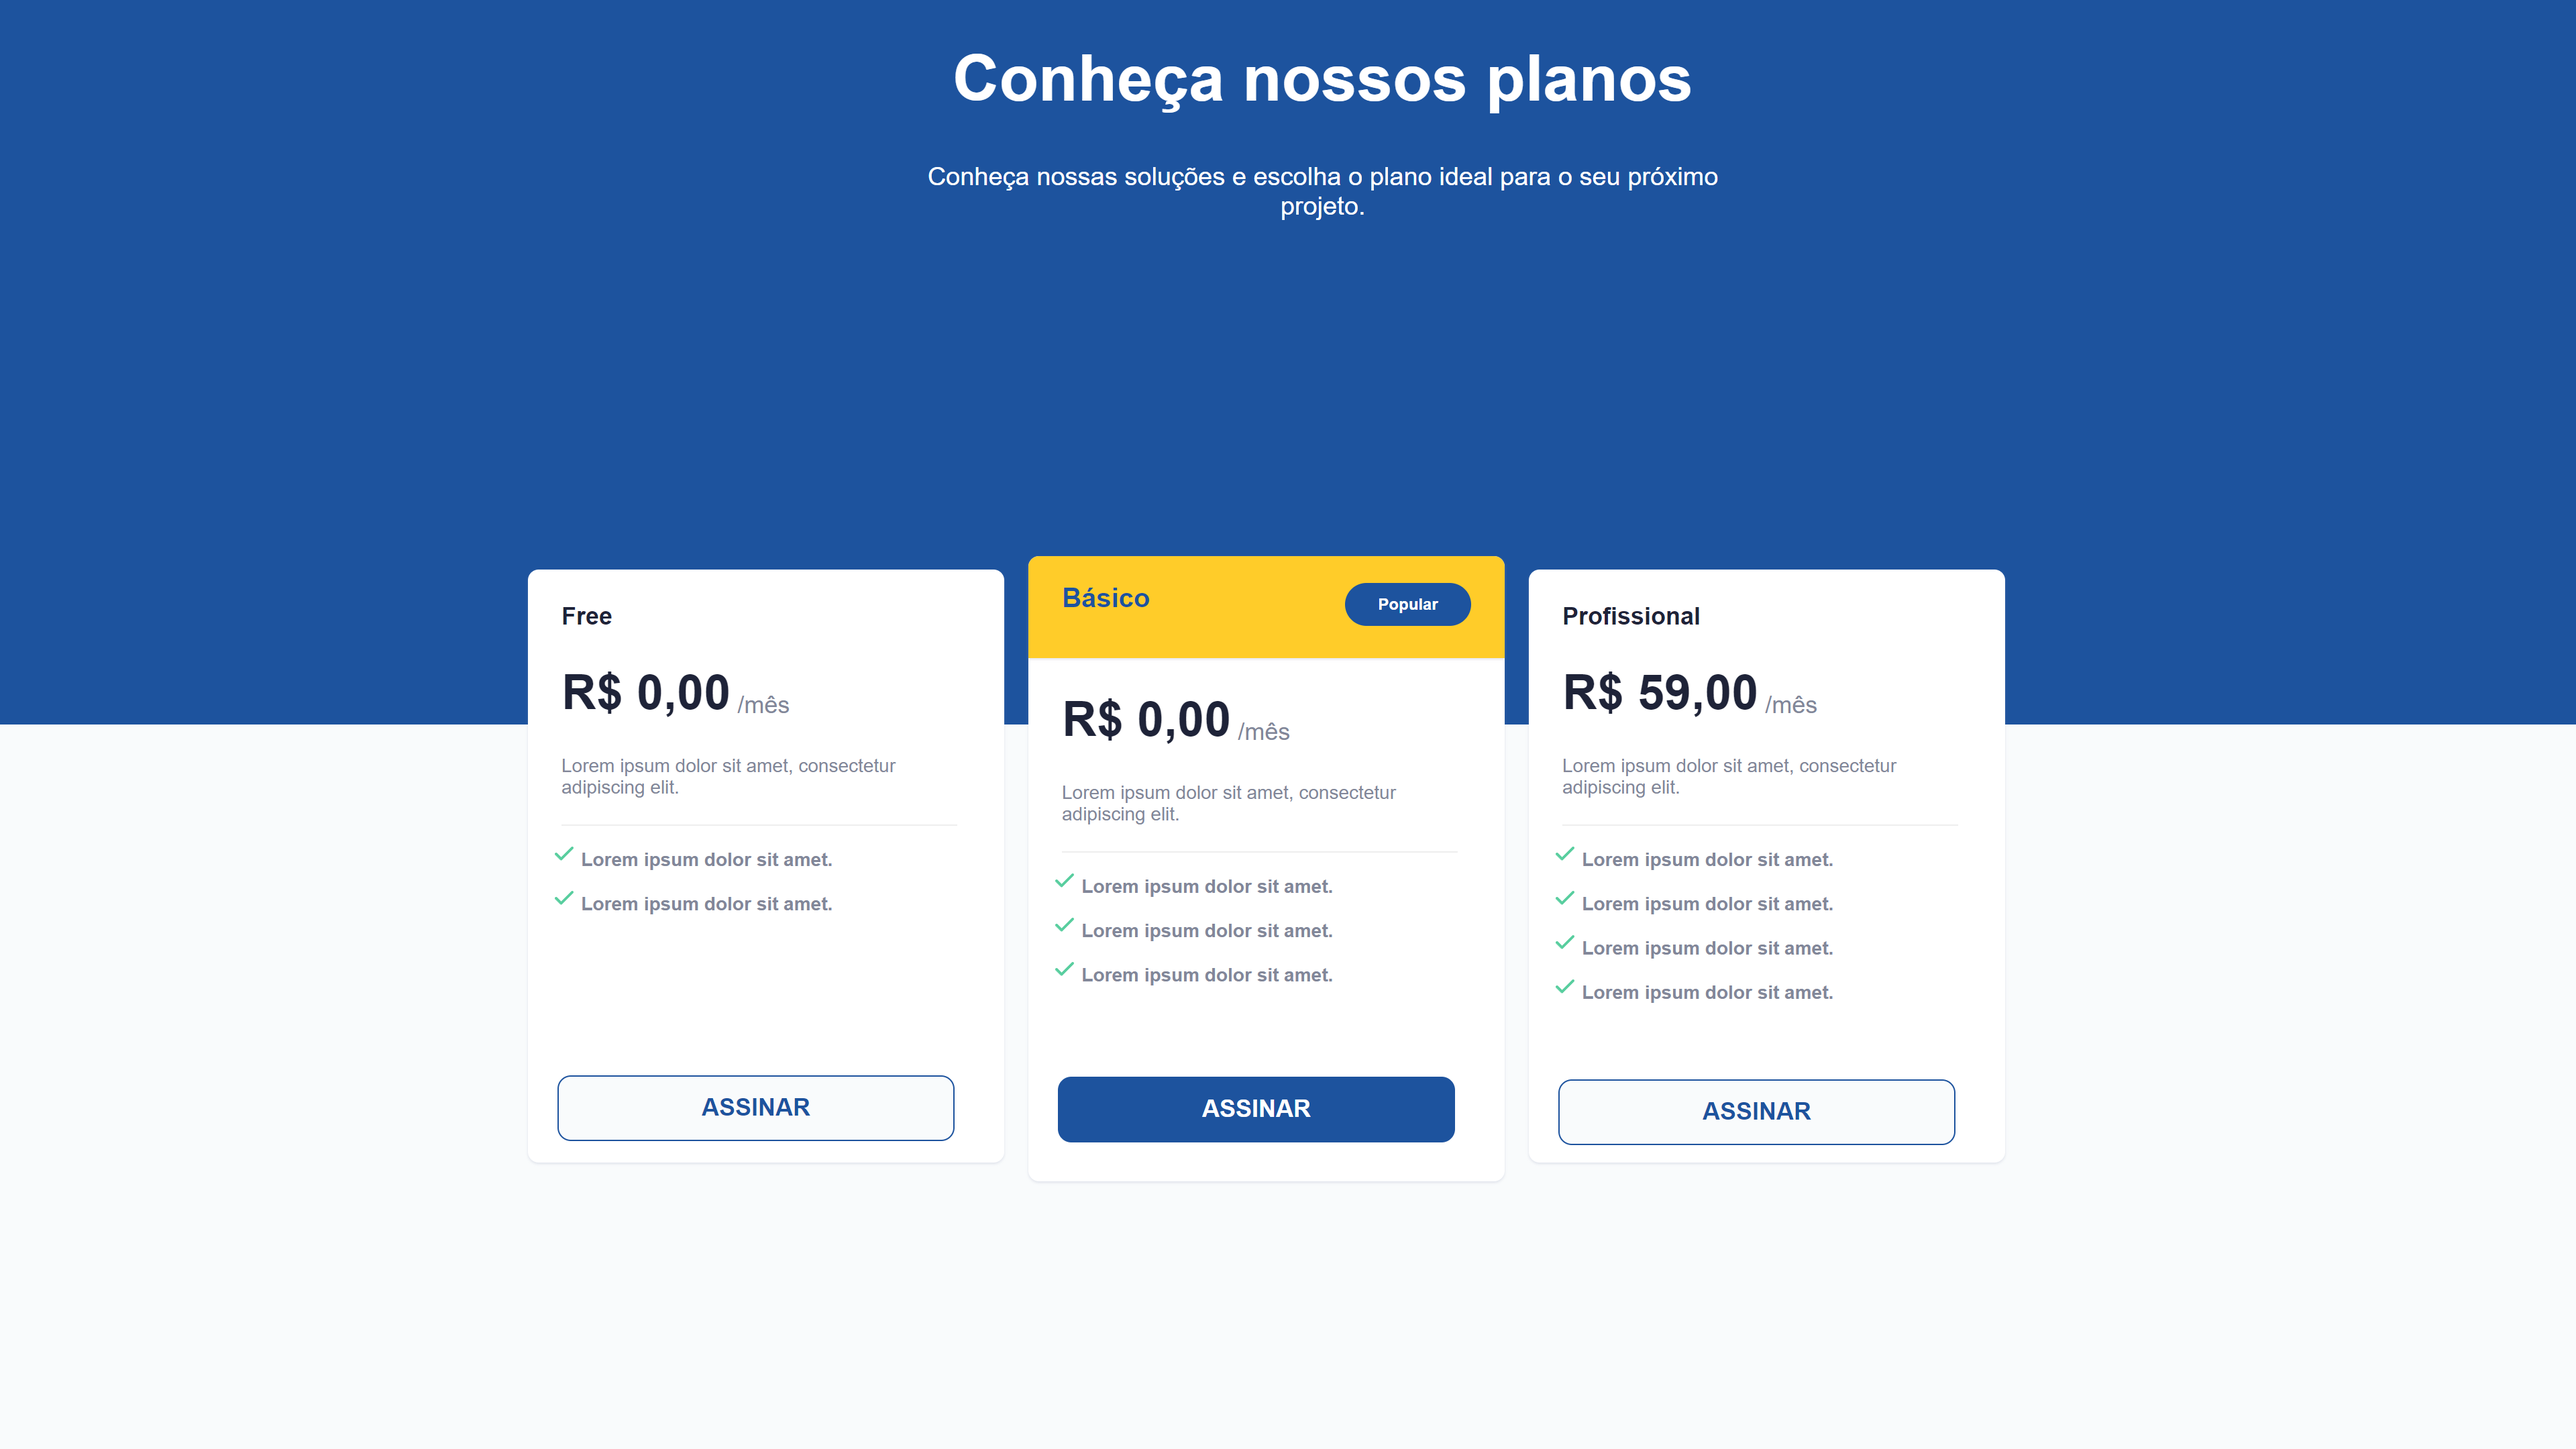
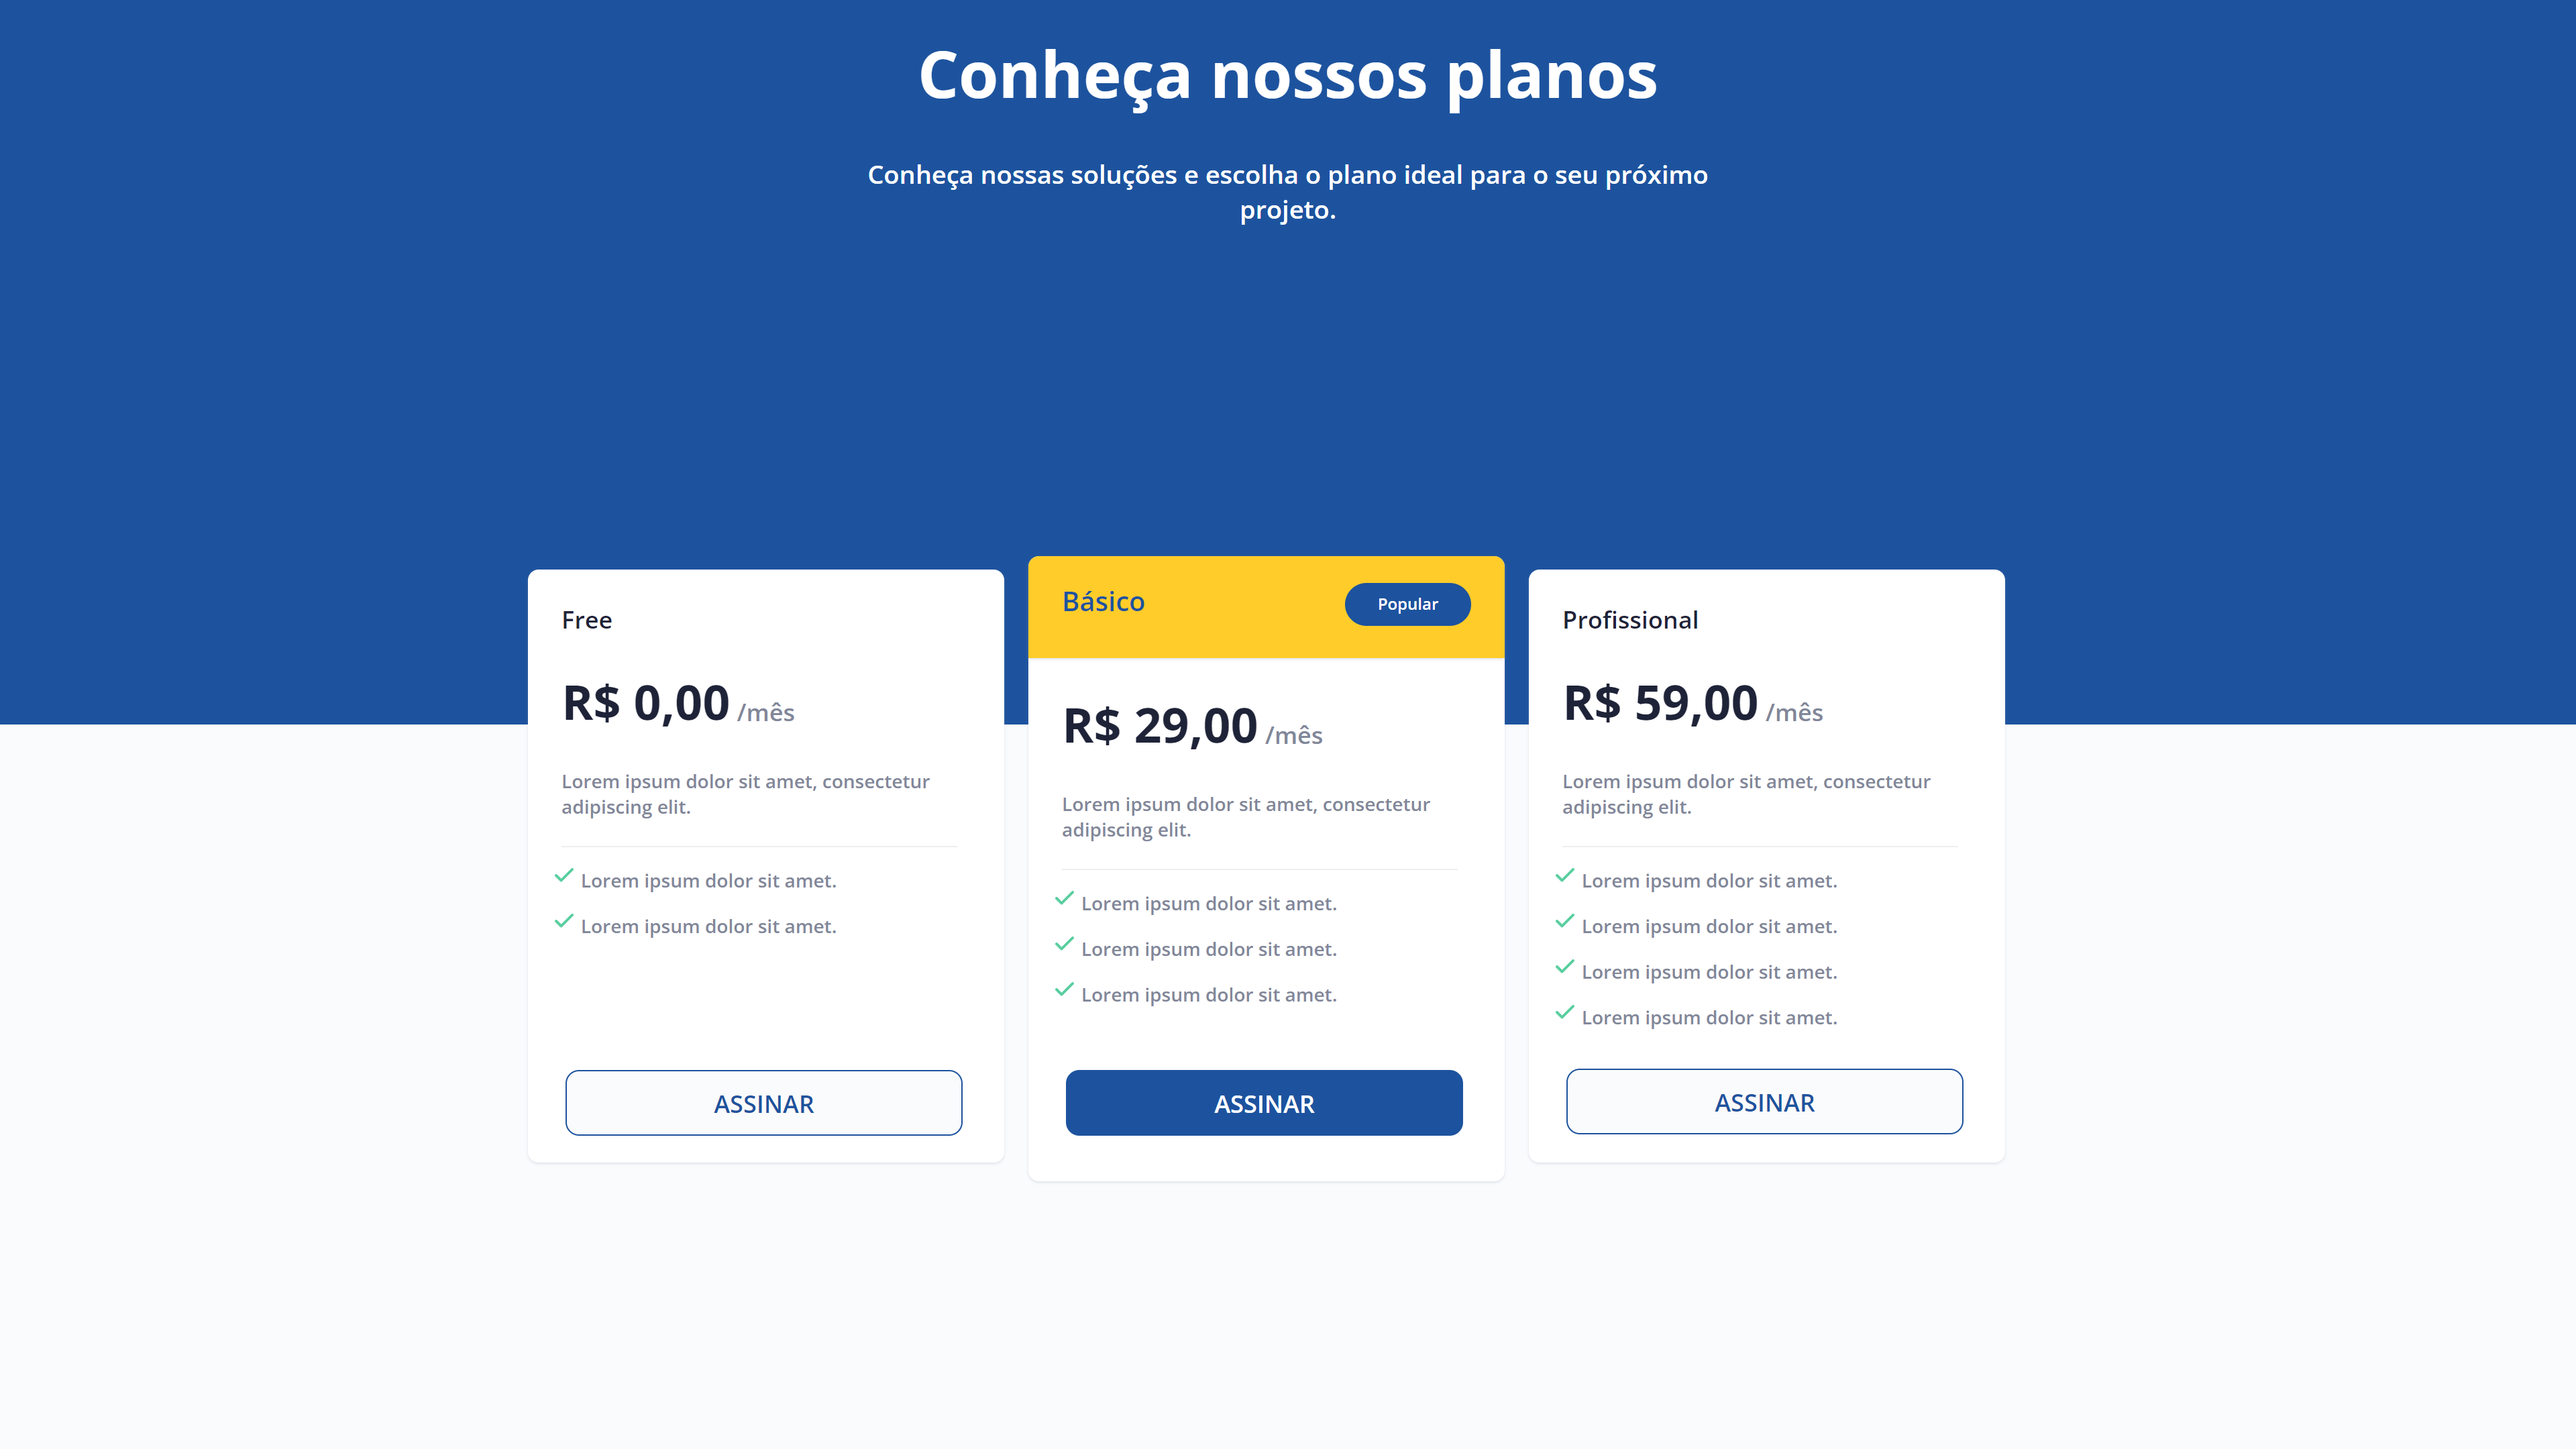
first commit

diff --git a/style.css b/style.css
@@ -10,7 +10,8 @@ body {
   height: 50vh;
   left: 0px;
   top: 0px;
-
+  display: flex;
+  justify-content: center;
   background: #1d539e;
 }
 #titles {
@@ -18,7 +19,6 @@ body {
   flex-direction: column;
   align-items: center;
   justify-content: center;
-  margin-left: 35%;
 
   width: 60%;
   height: 60%;
@@ -176,8 +176,8 @@ body {
   text-transform: uppercase;
 
   color: #1d539e;
-  margin-left: 22px;
-  margin-top: 120px;
+  margin-left: 28px;
+  margin-top: 98px;
 
   cursor: pointer;
 }
@@ -344,8 +344,8 @@ body {
   text-transform: uppercase;
 
   color: #fff;
-  margin-left: 22px;
-  margin-top: 68px;
+  margin-left: 28px;
+  margin-top: 47px;
 
   cursor: pointer;
 }
@@ -463,8 +463,8 @@ body {
   text-transform: uppercase;
 
   color: #1d539e;
-  margin-left: 22px;
-  margin-top: 57px;
+  margin-left: 28px;
+  margin-top: 29px;
 
   cursor: pointer;
 }
@@ -528,7 +528,7 @@ body {
   }
 
   #first-content button {
-    margin-left: 43px;
+    margin-left: 57px;
     margin-top: 90px;
     margin-bottom: 20px;
     width: 226px;
@@ -538,7 +538,7 @@ body {
     margin-left: 18px;
   }
   #second-content button {
-    margin-left: 43px;
+    margin-left: 57px;
     margin-top: 60px;
     margin-bottom: 19px;
 
@@ -549,7 +549,7 @@ body {
     margin-left: 18px;
   }
   #third-content button {
-    margin-left: 43px;
+    margin-left: 57px;
     margin-top: 30px;
     margin-bottom: 20px;
     width: 226px;

diff --git a/index.html b/index.html
@@ -54,7 +54,7 @@
         </div>
 
         <div id="price">
-          <h2>R$ 0,00</h2>
+          <h2>R$ 29,00</h2>
           <h3>/mês</h3>
         </div>
         <div id="description">
